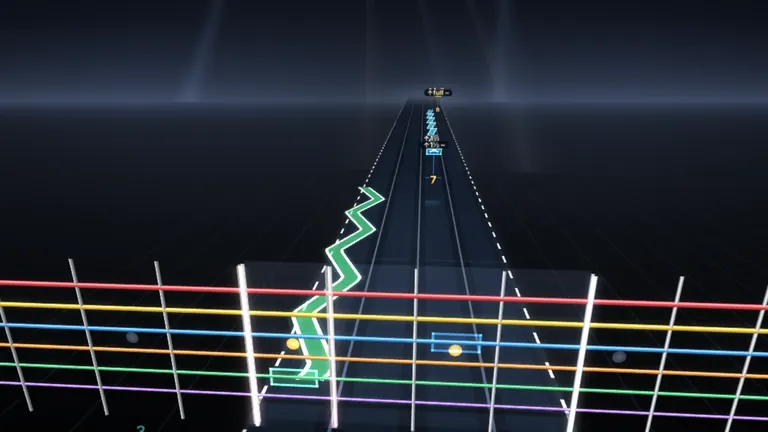
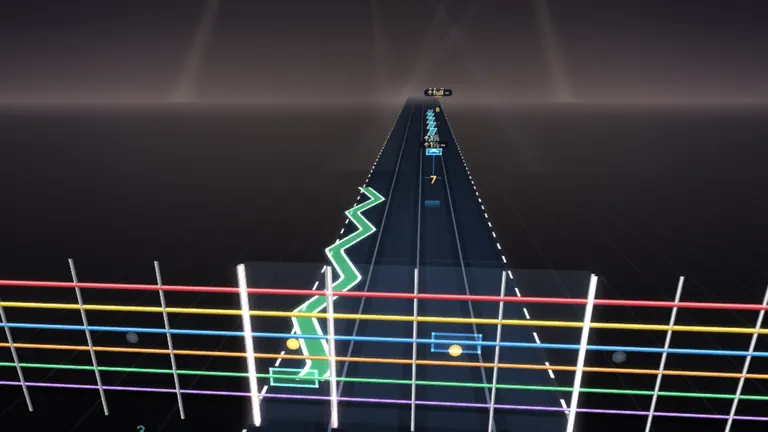
Highway settings that showed nothing now show: fog, reflections, vignette, grain, distance blur
Fog fills the style's room, reflections are clearly visible, vignette, grain and distance blur
are stronger. Shadows and half-size bloom leave the menu. Chrome, Neon, Clear and Arena get rooms
of their own so no two styles look alike. Pictures re-rendered.

Claude-Session: https://claude.ai/code/session_01VmPGRYnCQ65wpdcaFGG26m

Changed region(s): [[0.0, 0.0, 1.0, 0.4213], [0.6875, 0.3912, 0.7188, 0.4213], [0.5625, 0.4514, 0.5938, 0.4815]]

diff --git a/src/renderer/js/highway3d.js b/src/renderer/js/highway3d.js
@@ -54,7 +54,7 @@ void main() {
   if (mirror > 0.5) a *= reflK * exp(-vY * 1.8) * clamp(vZ / 3.0, 0.0, 1.0);
   if (a < 0.003) discard;
   vec3 c = vC.rgb * gain;
-  float fg = fogK * smoothstep(0.15, 1.0, vZ / zFar);
+  float fg = fogK * smoothstep(0.05, 0.85, vZ / zFar);
   // glow adds light only: alpha 0, so on a see-through highway (Nebula, Fluid)
   // it brightens the moving background instead of covering it with a dark slab
   if (additive > 0.5) gl_FragColor = vec4(c * (1.0 - fg) * a, 0.0);
@@ -642,6 +642,8 @@ uniform float pulse;
 uniform float heat;
 uniform float gain;    // a look's brightness (1 = as is)
 uniform float skyOn;   // a look's own room instead of the venue
+uniform float fogK;    // 4.31: the style's fog also fills its room toward the horizon
+uniform vec3 fogCol;
 uniform vec3 sTop;
 uniform vec3 sMid;
 uniform vec3 sHor;
@@ -812,6 +814,10 @@ void main() {
   c *= 1.0 - 0.4 * smoothstep(0.45, 1.0, vd);
   // warmer as you heat up
   c = mix(c, c * vec3(1.25, 0.95, 0.75) + vec3(0.04, 0.015, 0.0), heat * 0.6);
+  if (skyOn > 0.5 && fogK > 0.0) {
+    float fz = 1.0 - clamp(abs(p.y - vp) / (res.y * 0.4), 0.0, 1.0);
+    c = mix(c, fogCol, fogK * (0.35 + 0.55 * fz));
+  }
   gl_FragColor = vec4(c * gain, 1.0);
 }`;
 
@@ -832,6 +838,8 @@ function makeBackdrop(scene) {
       heat: { value: 0 },
       gain: { value: 1 },
       skyOn: { value: 0 },
+      fogK: { value: 0 },
+      fogCol: { value: new THREE.Color() },
       sTop: { value: new THREE.Color() },
       sMid: { value: new THREE.Color() },
       sHor: { value: new THREE.Color() },
@@ -906,25 +914,25 @@ void main() {
   float a = keepA > 0.5 ? clamp(texture2D(src, vUv).a, 0.0, 1.0) : 1.0;
   if (dof > 0.5) {
     // strongest at and above the horizon, gone a quarter of the screen below it
-    float k = 1.0 - smoothstep(vpUv - 0.25, vpUv, vUv.y);
-    k = 1.0 - k;
+    // 4.31: reaches further down the far highway, and blurs wider (it was hardly visible)
+    float k = smoothstep(vpUv - 0.3, vpUv - 0.02, vUv.y);
     if (k > 0.01) {
       vec4 b = vec4(0.0);
-      for (int i = -2; i <= 2; i++) for (int j = -2; j <= 2; j++) b += texture2D(src, vUv + vec2(float(i), float(j)) * px * 1.5);
+      for (int i = -2; i <= 2; i++) for (int j = -2; j <= 2; j++) b += texture2D(src, vUv + vec2(float(i), float(j)) * px * 3.0);
       c = mix(c, b.rgb / 25.0, k * 0.85);
       if (keepA > 0.5) a = mix(a, clamp(b.a / 25.0, 0.0, 1.0), k * 0.85);
     }
   }
   if (vig > 0.5) {
     float d = distance(vUv, vec2(0.5, 0.5));
-    float v = 1.0 - 0.28 * smoothstep(0.45, 0.85, d);
+    float v = 1.0 - 0.5 * smoothstep(0.3, 0.8, d);
     c *= v;
     // over a moving background the corners darken it too: less of it shows through
     if (keepA > 0.5) a = 1.0 - (1.0 - a) * v;
   }
   if (grain > 0.5) {
     float n = fract(sin(dot(vUv * 1000.0 + time, vec2(12.9898, 78.233))) * 43758.5453);
-    c += (n - 0.5) * 0.035 * a;
+    c += (n - 0.5) * 0.08 * a;
   }
   gl_FragColor = vec4(c, a);
 }`;
@@ -1221,6 +1229,8 @@ export function createRenderer3D(canvas) {
       u.gain.value = g;
       const sky = look && look.sky;
       u.skyOn.value = sky ? 1 : 0;
+      u.fogK.value = look ? look.fogK : 0;
+      setHex(u.fogCol.value, look ? look.fogCol : '#000000');
       if (sky) {
         setHex(u.sTop.value, sky.top);
         setHex(u.sMid.value, sky.mid);
@@ -1240,8 +1250,9 @@ export function createRenderer3D(canvas) {
       const mir = !!look && look.refl === 'mirror';
       mirrors.solid.visible = mir;
       mirrors.glow.visible = mir;
-      mirrors.solid.material.uniforms.reflK.value = look ? look.reflK : 0;
-      mirrors.glow.material.uniforms.reflK.value = look ? look.reflK * 0.6 : 0;
+      // 4.31: strong enough to read as a mirror floor (it was hardly visible)
+      mirrors.solid.material.uniforms.reflK.value = look ? look.reflK * 2.4 : 0;
+      mirrors.glow.material.uniforms.reflK.value = look ? look.reflK * 1.5 : 0;
       R.mirror = mir;
       const aaPost = look && (look.aa === 'off' || look.aa === 'fxaa' || look.aa === 'msaa8');
       // 4.31: also over a moving background (the after-effects keep it showing through)

diff --git a/src/renderer/js/hwlooks.js b/src/renderer/js/hwlooks.js
@@ -121,7 +121,7 @@ export const THEMES = [
     about: 'A big dark stage: light beams sweeping through haze, LED strip rails, the floor flashes on the beat.',
     def: { bright: 1, glow: 0.8, refl: 'full', fog: 0.4, gem: 'solid', hit: 'sparks', amb: true },
     sig: { floor: 'gloss', rails: 'led', pool: 0.08, beat: 1, amb: 'beams' },
-    sky: { top: '#020306', mid: '#070a12', hor: '#1a2030', near: '#040508', far: '#10141c', pattern: 6, patA: 0.5, key: 0.1, keyCol: '#9fc4ff', horLine: 0.14, horW: 0.04, horCol: '#bcd4ff' },
+    sky: { top: '#06050a', mid: '#1a1622', hor: '#4a3c48', near: '#08070a', far: '#2a2430', pattern: 6, patA: 0.6, key: 0.24, keyCol: '#ffd7a0', horLine: 0.18, horW: 0.04, horCol: '#ffe2b8' },
     fogCol: '#0e121a',
     bloom: [0.3, 0.45, 0.8],
     reflK: 0.3,
@@ -183,8 +183,8 @@ export const THEMES = [
     about: 'A glass floor with a fine grid, chrome rails with a running glint, glass shards on hits.',
     def: { bright: 0.95, glow: 0.75, refl: 'full', fog: 0.3, gem: 'glass', hit: 'shards', amb: true },
     sig: { floor: 'grid', rails: 'chrome', pool: 0, beat: 0.4, amb: 'sweep' },
-    sky: { top: '#03060a', mid: '#0a111a', hor: '#162636', near: '#070b10', far: '#132030', pattern: 1, patA: 0.05, key: 0.1, keyCol: '#9fd8ff', horLine: 0.12, horCol: '#7ee8ff' },
-    fogCol: '#0b1017',
+    sky: { top: '#141c26', mid: '#2e3c4c', hor: '#8ea4b8', near: '#10161d', far: '#334252', pattern: 1, patA: 0.12, key: 0.22, keyCol: '#d8f0ff', horLine: 0.2, horCol: '#bfefff' },
+    fogCol: '#4a5c6e',
     bloom: [0.3, 0.4, 0.8],
     reflK: 0.3,
     shadows: true,
@@ -195,11 +195,11 @@ export const THEMES = [
     id: 'neon',
     name: 'Neon depth',
     wink: 'Late-night synth club, with the dimmer turned down a notch.',
-    about: 'Bent neon tubes for rails, lane lines that pulse with the beat, violet haze drifting by.',
+    about: 'Bent neon tubes for rails, lane lines that pulse with the beat, teal and pink haze drifting by.',
     def: { bright: 0.9, glow: 0.7, refl: 'full', fog: 0.35, gem: 'neon', hit: 'ripple', amb: true },
     sig: { floor: 'gloss', rails: 'neon', pool: 0, beat: 0.9, amb: 'haze' },
-    sky: { top: '#020104', mid: '#08040f', hor: '#1c0a28', near: '#040307', far: '#120820', pattern: 1, patA: 0.06, key: 0.08, keyCol: '#c45cff', horLine: 0.22, horCol: '#ff5cd6' },
-    fogCol: '#0a0612',
+    sky: { top: '#010a10', mid: '#04202a', hor: '#0a4a58', near: '#020c10', far: '#06303a', pattern: 1, patA: 0.12, key: 0.16, keyCol: '#30f0ff', horLine: 0.3, horCol: '#ff3cc8' },
+    fogCol: '#06303a',
     bloom: [0.36, 0.5, 0.8],
     reflK: 0.26,
     shadows: false,
@@ -228,8 +228,8 @@ export const THEMES = [
     about: 'The most readable: flat dark room, crisp white lines, no glow tricks, nothing moving.',
     def: { bright: 1, glow: 0.25, refl: 'off', fog: 0, gem: 'flat', hit: 'none', amb: false },
     sig: { floor: 'none', rails: 'line', pool: 0, beat: 0, amb: 'none' },
-    sky: { top: '#0a0c0f', mid: '#0d1013', hor: '#151a20', near: '#090b0e', far: '#12161b', pattern: 0, patA: 0, key: 0, keyCol: '#ffffff', horLine: 0, horCol: '#ffffff' },
-    fogCol: '#0d1013',
+    sky: { top: '#18191b', mid: '#26282b', hor: '#3e4145', near: '#121315', far: '#2c2e31', pattern: 0, patA: 0, key: 0, keyCol: '#ffffff', horLine: 0, horCol: '#ffffff' },
+    fogCol: '#1d1e20',
     bloom: [0, 0, 1],
     reflK: 0.15,
     shadows: false,
@@ -344,6 +344,7 @@ export function resolveLook(state, { budget = 3 } = {}) {
     fogK: s.fog,
     fogCol: t.fogCol,
     refl,
+    reflWish: s.refl,
     reflK: t.reflK,
     gem: s.gem,
     hit: s.hit,

diff --git a/src/renderer/js/hwlooks-pane.js b/src/renderer/js/hwlooks-pane.js
@@ -219,10 +219,9 @@ export function lookSection() {
         [['auto', 'Auto'], [0.5, '50%'], [0.75, '75%'], [1, '100%'], [1.25, '125%'], [1.5, '150%'], [2, '200%']], auto ? 'auto' : g.res, (v) => setGfx('res', v)),
       seg('Edge smoothing', 'MSAA: clean edges, some work (the usual). FXAA: cheaper, a touch softer. Off: cheapest, jagged edges.',
         [['off', 'Off'], ['fxaa', 'FXAA'], ['msaa4', 'MSAA 4×'], ['msaa8', 'MSAA 8×']], g.aa, (v) => setGfx('aa', v)),
-      seg('Bloom', 'Bright things shine a little into the dark around them. Half size costs much less.', [['off', 'Off'], ['half', 'Half size'], ['full', 'Full']], g.bloom, (v) => setGfx('bloom', v)),
+      seg('Bloom', 'Bright things shine a little into the dark around them.', [['off', 'Off'], ['full', 'On']], g.bloom === 'off' ? 'off' : 'full', (v) => setGfx('bloom', v)),
       seg('Reflections quality', 'Simple: a faint copy of each note on the floor (cheap). Mirror floor: notes, strings and frets mirrored (draws them twice).',
         [['off', 'Off'], ['simple', 'Simple'], ['mirror', 'Mirror floor']], g.refl, (v) => setGfx('refl', v)),
-      seg('Shadows', 'A soft shadow on the floor under each note (styles that use them). Cheap.', [['off', 'Off'], ['on', 'Soft']], g.shadows, (v) => setGfx('shadows', v)),
       seg('Style effects', 'Full: each style’s movement in the room and its moving rails. Simple: still.', [['simple', 'Simple'], ['full', 'Full']], g.fx, (v) => setGfx('fx', v)),
       seg('Frame rate cap', 'Fewer pictures a second: a cooler, quieter PC. The song and scoring keep their own timing.', [[0, 'Screen'], [30, '30'], [60, '60'], [120, '120']], g.fpsCap, (v) => setGfx('fpsCap', v)),
       sw('Distance blur', 'Softens the far end. Off by default: far notes get a little harder to read early.', g.dof, (v) => setGfx('dof', v)),

diff --git a/src/renderer/js/highway.js b/src/renderer/js/highway.js
@@ -2922,7 +2922,8 @@ export function createHighway(stage) {
     if (z < 0.05 || LK.refl !== 'simple') return; // 4.30: the look's reflections (a mirror floor draws its own)
     const k = Math.min(1, z / (G.zs * 0.35)) * Math.max(0, Math.min(1, (G.zF * 0.8 - z) / (G.zF * 0.3))) * fade;
     if (k < 0.02) return;
-    R3.L.floor.q(x0, -y0, z, x1, -y0, z, x1, -y1, z, x0, -y1, z, col(hex, 0.2 * k, 1.1), col(hex, 0.2 * k, 1.1), col(hex, 0.03 * k), col(hex, 0.03 * k));
+    const rk = LK.reflWish === 'full' ? 2.4 : 1; // 4.31: a style that wants a full reflection gets a clear one even on Simple
+    R3.L.floor.q(x0, -y0, z, x1, -y0, z, x1, -y1, z, x0, -y1, z, col(hex, 0.2 * k * rk, 1.1), col(hex, 0.2 * k * rk, 1.1), col(hex, 0.03 * k * rk), col(hex, 0.03 * k * rk));
   }
 
   /**

diff --git a/docs/session-notes.md b/docs/session-notes.md
@@ -52,3 +52,11 @@ Decisions and why:
 Checks: `node --test test/hwlooks.test.mjs` (new: signatures, background choice, migration, style effects); `THEMES=1` all 0.000; `HWMENU=1 shoot.js` (new) checks the drawer (11 picture tiles load, a style and the style's room can be picked, no frame rate switch) and writes pictures of both menus; `HWBG=own|venue` sets the background in `shoot.js`.
 
 Unknown until the user's PC: how the new styles feel at full speed on a real card, and whether the floor patterns read well enough inside a narrow hand position.
+
+Settings checker's findings (GFXCHECK) acted on:
+- Fog now also fills the style's own room toward the horizon and starts nearer (was only far notes: ~0.05% of pixels).
+- Reflections: the mirror floor is 2.4× stronger; a style that wants Full reflections gets a 2.4× clearer simple reflection too (Classic keeps its faint one).
+- Vignette 28% → 50% at the corners, from nearer the middle; grain ±0.0175 → ±0.04; distance blur reaches down the far highway and blurs twice as wide.
+- Removed from the menu: Shadows (no visible effect) and Bloom "Half size" (looked the same as Full; Auto still uses it to save work). MSAA 8× kept: the same as 4× here only because the software GPU caps at 4 samples.
+- Rooms that looked alike: Chrome is now a light steel room, Neon teal with pink, Clear a neutral grey, Arena a warm hazy stage. Closest pair in the contact sheet (mean difference /255, highway area) went from 6.4 to 9.0.
+- Not changed: the note finishes only differ on note faces (kept as they are; changing the gem drawing risked the THEMES check).
